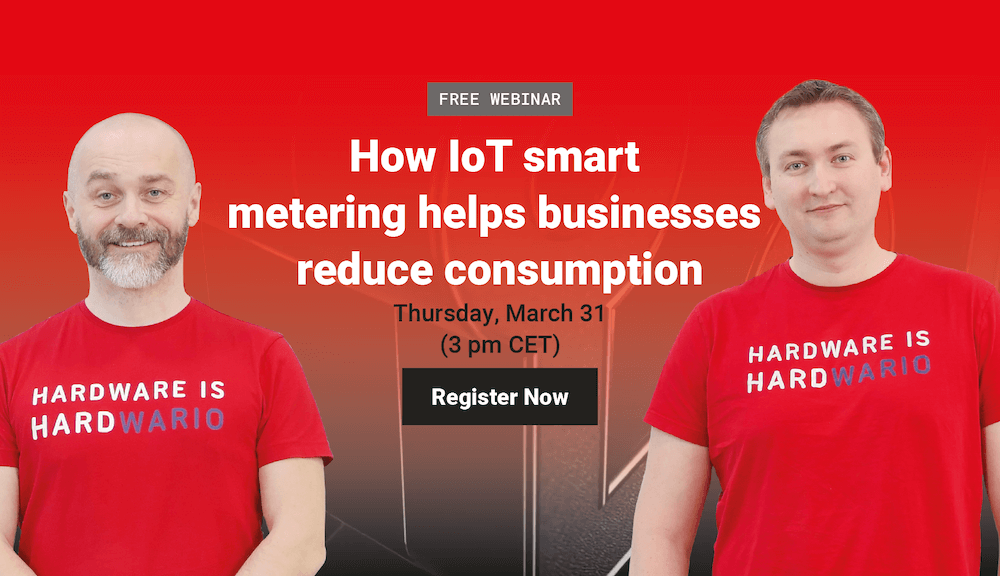
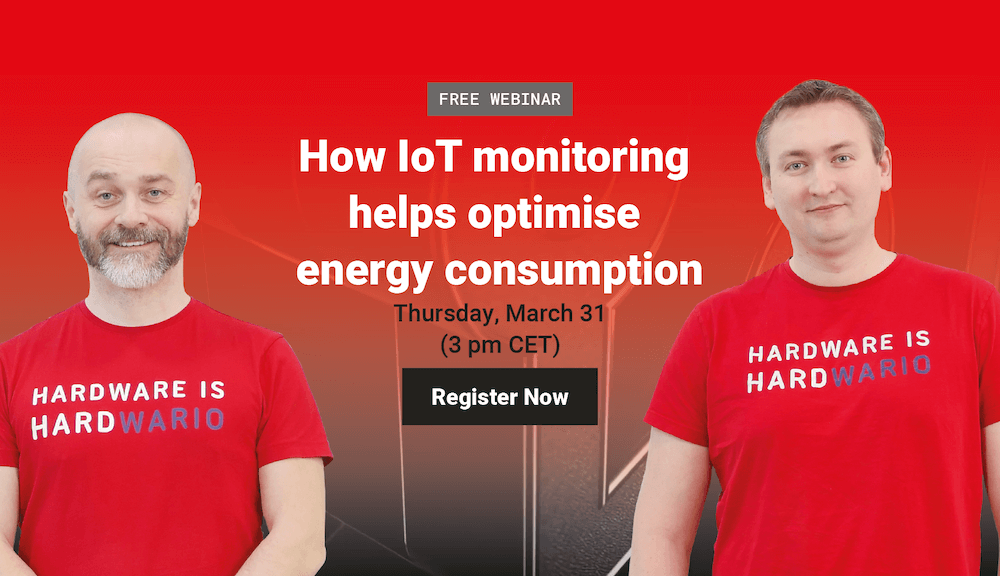
Update title

Changed region(s): [[0.217, 0.2188, 0.775, 0.5312], [0.589, 0.4375, 0.651, 0.5]]

diff --git a/content/events/2022-03-31-webinar-industry.cs.md b/content/events/2022-03-31-webinar-industry.cs.md
@@ -4,7 +4,7 @@ time: "15:00"
 price: "Zdarma"
 publishdate: "2022-03-21"
 expirydate: "2022-04-01"
-title: "Jak IoT monitoring spotřeby pomáhá podnikům snížit spotřebu"
+title: "Jak monitorování IoT pomáhá optimalizovat spotřebu energie"
 hashtags: ["webinar","zdarma"]
 category: industry
 image_main: /upload/webinar-metering.png
@@ -16,7 +16,7 @@ description: Přihlaste se na bezplatný HARDWARIO IoT Webinář
 <div class = "row">
 <div class = "col pr-30 font-17 font-lnh30">
 <img class = "w-100" src = "/upload/webinar-metering.png"/>
- <h1 class="font-weight-black font-36 font-md-46 pb-20 pb-md-30 font-md-lnh48 d-none" style = "">Webinář zdarma: Jak IoT monitoring spotřeby pomáhá podnikům snížit spotřebu</h1>
+ <h1 class="font-weight-black font-36 font-md-46 pb-20 pb-md-30 font-md-lnh48 d-none" style = "">Webinář zdarma: Jak monitorování IoT pomáhá optimalizovat spotřebu energie</h1>
 
 <p class = "pt-15 pb-15">
 <strong>Kdy:</strong> 31. března od 15 hodin<br/>

diff --git a/content/events/2022-03-31-webinar-industry.en.md b/content/events/2022-03-31-webinar-industry.en.md
@@ -4,7 +4,7 @@ time: "3 pm CET"
 price: "Free"
 publishdate: "2022-03-21"
 expirydate: "2022-04-01"
-title: "Free webinar: How IoT smart metering helps businesses reduce consumption"
+title: "Free webinar: How IoT monitoring helps optimise energy consumption"
 hashtags: ["webinar","free"]
 category: industry
 image_main: /upload/webinar-metering.png
@@ -16,7 +16,7 @@ description: "Register to free HARDWARIO IoT Webinar"
 <div class = "row">
 <div class = "col pr-30 font-17 font-lnh30">
 <img class = "w-100" src = "/upload/webinar-metering.png"/>
- <h1 class="font-weight-black font-36 font-md-46 pb-20 pb-md-30 font-md-lnh48 d-none" style = "">Free webinar: How IoT smart metering helps businesses reduce consumption</h1>
+ <h1 class="font-weight-black font-36 font-md-46 pb-20 pb-md-30 font-md-lnh48 d-none" style = "">Free webinar: How IoT monitoring helps optimise energy consumption</h1>
 
 <p class = "pt-15 pb-15">
 <strong>When:</strong> 31 March at 3 pm CET<br/>
